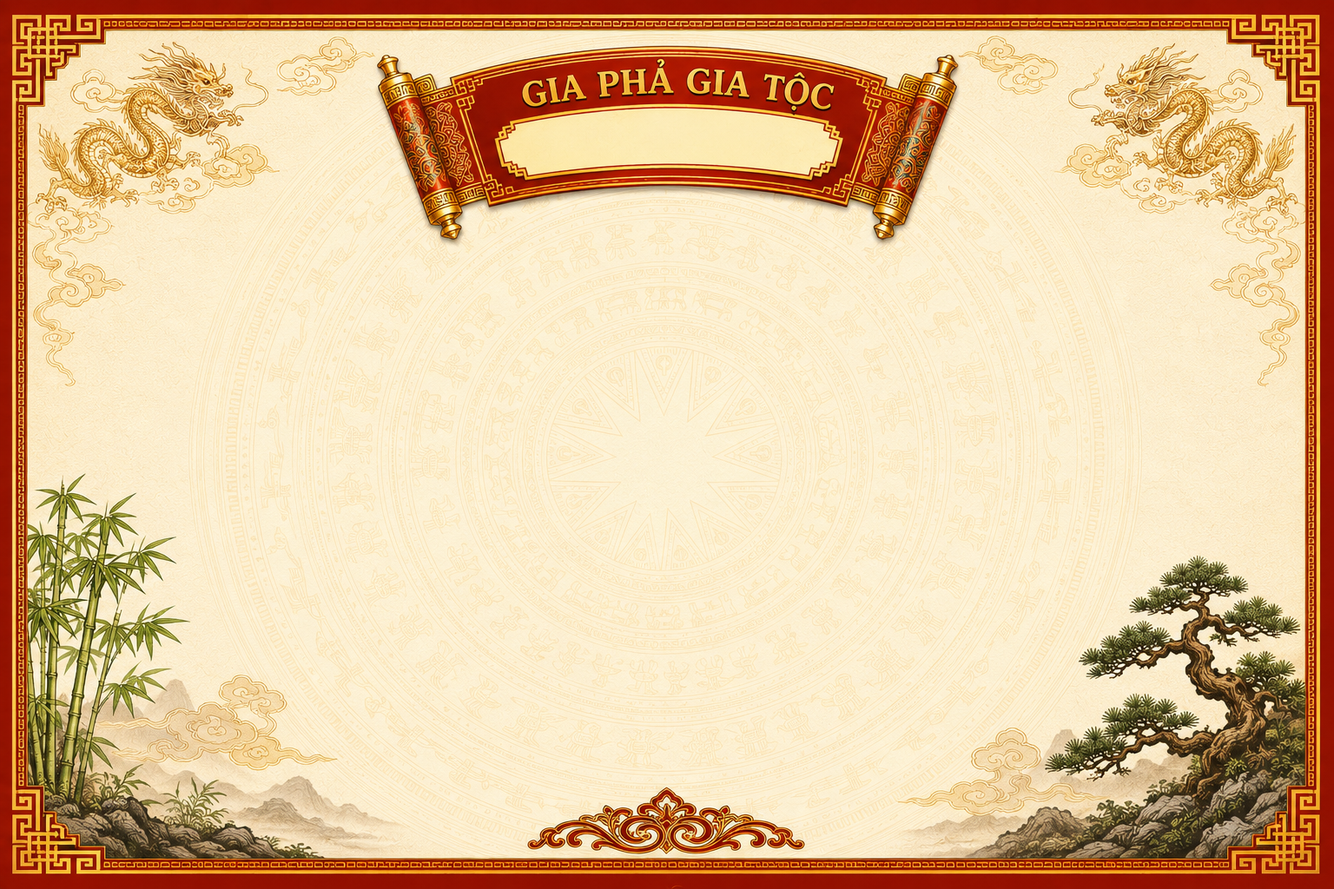
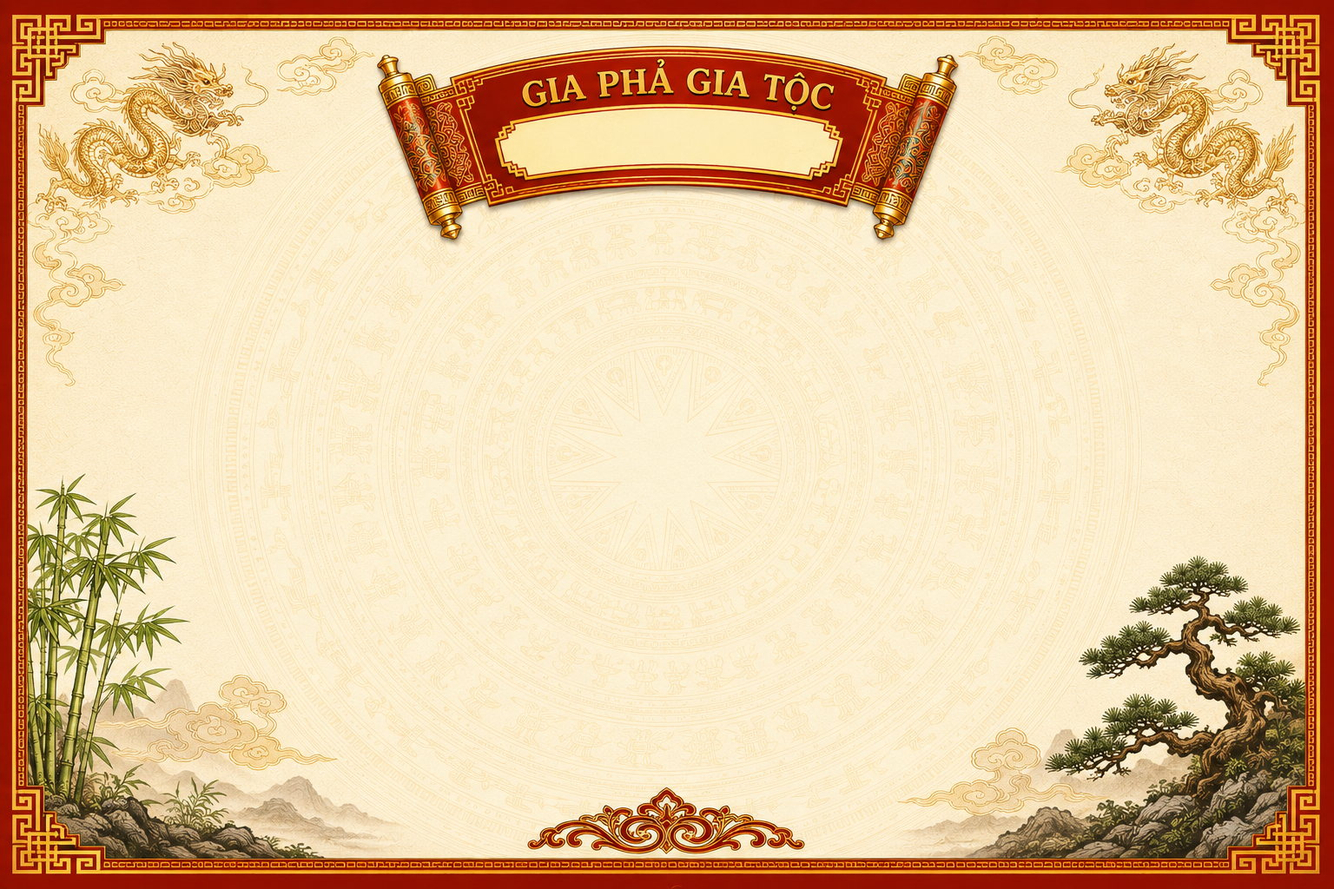
Chuan bi CH Play: nen anh nen 5.2MB -> 2.2MB (giam 58%), rut gon 20 cau huong dan dai dong cho giao dien chuyen nghiep hon, ra soat bao mat (235 lan esc, khong eval, khong lo khoa, RLS kin) va kiem tra 21/21 trang khong loi. Them tai lieu ho so CH Play

diff --git a/public/app.html b/public/app.html
@@ -839,7 +839,7 @@ function ioTemplate(key){const fs=ioFields(key);
 let ioData=null,ioKey='';
 function ioImport(key){ioKey=key;ioData=null;
  document.getElementById('modalBox').innerHTML=`<h3>⬆ Nhập ${esc(CRUD[key].title)}</h3>
-  <p class="muted" style="font-size:12.5px">Chọn file <b>.xlsx / .xls / .csv</b>. Dòng đầu là tiêu đề cột — không cần đúng thứ tự, không cần dấu.</p>
+  <p class="muted" style="font-size:12.5px">Chọn file .xlsx / .xls / .csv — dòng đầu là tiêu đề cột.</p>
   <div style="margin:6px 0 10px"><button class="btn btn-o btn-sm" onclick="ioTemplate('${key}')">⬇ Tải file mẫu</button></div>
   <div class="field"><input type="file" accept=".xlsx,.xls,.csv" onchange="ioFile(event)"/></div>
   <div id="ioPrev" class="muted" style="font-size:12.5px;min-height:24px"></div>
@@ -1044,7 +1044,7 @@ function memFromRow(o){const g=stripVN(String(o.gender||'')).toLowerCase();
   _spouse:String(o._spouse||'').split(/[\n\r]/)[0].replace(/^\s*\d+\.\s*/,'').replace(/\([^)]*\)/g,'').trim()};}
 let memImportData=null;
 function memImport(){document.getElementById('modalBox').innerHTML=`<h3>⬆ Nhập danh sách thành viên</h3>
- <p class="muted" style="font-size:12.5px">Chọn file <b>.xlsx / .xls / .csv</b>, dòng đầu là tiêu đề cột. Bấm <b>⬇ Mẫu Excel</b> để tải file mẫu đúng định dạng. Cột <b>Cha</b> và <b>Vợ/Chồng</b> điền <b>họ tên</b> (khớp người đã có hoặc trong cùng file).</p>
+ <p class="muted" style="font-size:12.5px">Chọn file .xlsx / .xls / .csv. Cột Cha, Mẹ, Vợ/Chồng điền họ tên.</p>
  <div class="field"><input type="file" accept=".xlsx,.xls,.csv" onchange="memImportFile(event)"/></div>
  <div id="memImpPrev" style="font-size:12.5px;margin-top:6px"></div>
  <div style="display:flex;justify-content:flex-end;gap:8px;margin-top:12px"><button class="btn btn-o" onclick="closeModal()">Hủy</button><button class="btn btn-p" id="memImpBtn" onclick="memImportCommit()" disabled>Nhập</button></div>`;
@@ -1269,7 +1269,7 @@ const OBJ_NUM=['size','w','h','rot','textRot','opacity','lh','ls'];
 const OBJ_CONT=['text','size','w','h','rot','textRot','opacity','lh','ls','color','border','bg'];
 function updObj(prop,v){const o=selO();if(!o)return;o[prop]=OBJ_NUM.includes(prop)?(+v):v;save();updateCpPreview();if(!OBJ_CONT.includes(prop))renderObjBar();}
 function renderObjBar(){const bar=document.getElementById('objBar');if(!bar)return;const o=selO();
- if(!o){bar.innerHTML='<span class="muted" style="font-size:12px">Bấm vào một ô chữ trong khung xem trước để chọn — rồi chỉnh mọi thuộc tính ở bảng này (kéo để di chuyển, kéo 8 nút để đổi cỡ, kéo nút tròn phía trên để xoay).</span>';return;}
+ if(!o){bar.innerHTML='<span class="muted" style="font-size:12px">Chọn một ô chữ trong khung xem trước để chỉnh.</span>';return;}
  const FS=[['khai','Khải'],['hanh','Bút lông'],['xing','Hành'],['long','Hành thảo'],['thao','Thảo'],['xiaowei','Thanh mảnh'],['dam','Đậm'],['chan','Tống']];
  const VF=[['serif','Serif (có chân)'],['title','Tiêu đề đậm'],['sans','Sans (không chân)']];
  const TY=[['hoanhphi','Hoành phi'],['cauic','Câu đối'],['title','Tiêu đề'],['subtitle','Phụ đề'],['text','Văn bản'],['translation','Bản dịch']];
@@ -1386,7 +1386,7 @@ function videoEmbed(u){const yt=String(u).match(/(?:youtu\.be\/|youtube\.com\/(?
  if(/\.(mp4|webm|ogg)(\?|$)/i.test(u))return `<video src="${esc(u)}" controls style="width:100%;border-radius:8px"></video>`;
  return `<a href="${esc(u)}" target="_blank" class="btn btn-o btn-sm">▶ ${esc(u)}</a>`;}
 V.nhatho=()=>{const h=hget(heritageTab);
- const body=`${h.text?`<div style="white-space:pre-line;line-height:1.7">${esc(h.text)}</div>`:'<p class="muted">Chưa có nội dung. Bấm "Sửa nội dung" để đăng bài (chữ + ảnh + video).</p>'}
+ const body=`${h.text?`<div style="white-space:pre-line;line-height:1.7">${esc(h.text)}</div>`:'<p class="muted">Chưa có nội dung.</p>'}
    ${h.images.length?`<div style="display:grid;grid-template-columns:repeat(3,1fr);gap:8px;margin-top:12px">${h.images.map(src=>`<img src="${src}" style="width:100%;border-radius:8px"/>`).join('')}</div>`:''}
    ${h.videos.length?`<div style="margin-top:12px;display:grid;gap:10px">${h.videos.map(videoEmbed).join('')}</div>`:''}
    <div style="margin-top:14px"><button class="btn btn-p btn-sm" onclick="editHeritage('${heritageTab}')">✎ Sửa nội dung</button></div>`;
@@ -1754,7 +1754,7 @@ function fundReportPane(){const rows=fundRows();const t=fundTotals(rows);
 function fundCatPane(){const list=cats();
  return `<div class="card pad"><div class="h3" style="display:flex;align-items:center;gap:8px">🏷 Hạng mục quỹ
    <button class="btn btn-o btn-sm" style="margin-left:auto" onclick="catAdd()">➕ Thêm hạng mục</button></div>
-  <p class="muted" style="font-size:12.5px;margin:0 0 8px">Mỗi giao dịch thuộc một hạng mục. Đổi tên thì các giao dịch cũ tự đổi theo.</p>
+  <p class="muted" style="font-size:12.5px;margin:0 0 8px"></p>
   ${list.map((c,i)=>{const n=(DB.fund||[]).filter(x=>catClean(x.cat)===c);
     const thu=n.filter(x=>x.type!=='Chi').reduce((s2,x)=>s2+(+x.amount||0),0);
     const chi=n.filter(x=>x.type==='Chi').reduce((s2,x)=>s2+(+x.amount||0),0);
@@ -1858,7 +1858,7 @@ V.ai=()=>{const opts=DB.members.map(m=>`<option value="${m.id}">${esc(m.name)}${
    <div id="aiAns" style="margin-top:10px"></div>
    <p class="muted" style="font-size:11.5px;margin-top:6px">${hasKey?'Đang dùng '+esc(DB.settings.ai.provider)+' cho câu hỏi mở.':'Chưa cấu hình API — trợ lý trả lời từ dữ liệu gia phả trong máy. Muốn hỏi đáp mở rộng, thêm API key ở Cài đặt → AI.'}</p></div>
   <div class="card frame-gold pad" style="cursor:pointer" onclick="psOpen('auto')"><div class="h3">🎞 Chỉnh sửa - phục chế ảnh</div>
-   <p class="muted" style="font-size:12.5px;line-height:1.8">Studio như chuyên gia Photoshop lâu năm: phân tích hư hại tự động, 13 preset phục chế, 11 thanh chỉnh realtime, so sánh trước/sau, phục chế AI, xuất chất lượng cao — hỗ trợ nhiều ảnh cùng lúc.</p>
+   <p class="muted" style="font-size:12.5px;line-height:1.8">Phục chế ảnh cũ: phân tích hư hại, 13 kiểu phục chế, so sánh trước/sau, xuất chất lượng cao.</p>
    <button class="btn btn-p btn-sm">🎞 Mở Studio</button></div></div>
  <div class="card frame-gold pad" style="margin-top:12px"><div class="h3">🔎 Truy xuất quan hệ</div><div style="display:flex;gap:8px;flex-wrap:wrap;align-items:center"><select id="rA" style="width:200px">${opts}</select><span>↔</span><select id="rB" style="width:200px">${opts}</select><button class="btn btn-p" onclick="findRel()">Tra cứu</button></div><div id="relResult" style="margin-top:14px"></div></div>`;};
 function anc(id){const c=[];let x=id,g=new Set();while(x&&!g.has(x)){g.add(x);c.push(x);const m=DB.members.find(o=>o.id===x);x=m?(m.fatherId||m.motherId||0):0;}return c;}
@@ -1962,7 +1962,7 @@ function hvTuvi(){const b=hvBirth();const p=hvP();if(!b)return hvNeedDate();
  const now=new Date().getFullYear();const age=now-b.y+1;
  let dv='';for(let i=0;i<6;i++){const y0=b.y+i*10;const c=canChi(y0);dv+=`<span class="hv-pill">${i*10}–${i*10+9} tuổi · ${c.can} ${c.chi} (${c.menh.split(' ').pop()})</span>`;}
  const sao=saoNam(age,p.gender);const hanh=cy.menh.split(' ').pop();
- return hvSec('🗓 Tứ trụ (giản lược)',tru)+hvSec('📈 Đại vận theo thập niên',dv+'<div class="muted" style="font-size:11.5px;margin-top:4px">Chu kỳ 10 năm theo Can Chi — cách nhìn văn hóa về các giai đoạn cuộc đời.</div>')
+ return hvSec('🗓 Tứ trụ (giản lược)',tru)+hvSec('📈 Đại vận theo thập niên',dv+'<div class="muted" style="font-size:11.5px;margin-top:4px"></div>')
  +(sao?hvSec(`⭐ Sao năm ${now} (tuổi mụ ${age})`,`Sao <b>${sao}</b> — ${SAO_Y[sao]||''}.`):'')
  +hvSec('🌱 Gợi ý phát triển bản thân',`Người mệnh <b>${hanh}</b> theo quan niệm ngũ hành: ${HANH_GOIY[hanh]}. Tuổi ${cy.chi}: ${CHITRAIT[cy.chi]||''}.`)+HV_NOTE;}
 function hvThanso(){const b=hvBirth();const p=hvP();if(!p.name&&!b)return hvNeedDate();
@@ -2660,7 +2660,7 @@ function lbBrowser(k,title,intro){const groups=lbData(k).map(g=>g.g);const fav=l
 function mtCard(kind){const has=DB.settings.ai&&DB.settings.ai.key;
  return `<div class="card pad mt-card">
   <div class="h3">📷 Đối chiếu ảnh của bạn với thư viện</div>
-  <p class="muted" style="font-size:12.5px;margin:4px 0 9px">Tải ảnh hoặc chụp ${kind==='face'?'khuôn mặt':'bàn tay'}, đánh dấu vài điểm mốc — ứng dụng đo tỉ lệ và tìm <b>3–5 mẫu giống nhất</b>. Mọi việc làm ngay trong máy, <b>ảnh không lưu, không gửi đi đâu</b>.</p>
+  <p class="muted" style="font-size:12.5px;margin:4px 0 9px">Chụp hoặc chọn ảnh, đánh dấu vài điểm mốc để tìm mẫu giống nhất. Ảnh xử lý trong máy, không lưu.</p>
   <div style="display:flex;gap:8px;flex-wrap:wrap">
    <button class="btn btn-p" onclick="mtOpen('${kind}')">🎯 Bắt đầu đối chiếu</button>
    ${has?`<button class="btn btn-o" onclick="hvCam('${kind==='face'?'face':'palm'}')">🤖 Nhờ AI mô tả thêm</button><div id="hv${kind==='face'?'Face':'Palm'}Out" style="width:100%;margin-top:8px"></div>`:''}
@@ -2767,7 +2767,7 @@ function lcGoodView(){const now=new Date();const base=lcGoodM==null?new Date(now
  return `<div style="display:flex;gap:8px;flex-wrap:wrap;align-items:center;margin-bottom:8px">
   <select onchange="lcPurpose=this.value;render()">${LC_PURPOSE.map(p=>`<option value="${p[0]}" ${lcPurpose===p[0]?'selected':''}>${p[1]}</option>`).join('')}</select>
   <button class="btn btn-o btn-sm" onclick="lcGoodM=new Date(${y},${m-1},1);render()">‹</button><b>Tháng ${m+1}/${y}</b><button class="btn btn-o btn-sm" onclick="lcGoodM=new Date(${y},${m+1},1);render()">›</button></div>
- <p class="muted" style="font-size:11.5px">Chấm điểm theo lệ dân gian phổ thông (hoàng/hắc đạo, Tam nương, Nguyệt kỵ) — giải thích rõ ràng, không thuật ngữ phức tạp.</p>
+ <p class="muted" style="font-size:11.5px">Theo lệ dân gian phổ thông — chỉ để tham khảo.</p>
  ${rows.slice(0,12).map(x=>`<div class="hv-sec" style="margin-top:8px"><div style="display:flex;gap:8px;align-items:center;flex-wrap:wrap">
    <b style="font-size:15px">${['CN','T2','T3','T4','T5','T6','T7'][x.t.getDay()]} ${x.t.getDate()}/${m+1}</b>
    <span class="muted" style="font-size:12px">(âm ${x.i.lu.d}/${x.i.lu.m} · ${x.i.cd.can} ${x.i.cd.chi})</span>
@@ -2785,7 +2785,7 @@ function lcClanView(){const s=DB.settings;s.remind=s.remind||{le:true,ho:true,da
   <label><input type="checkbox" ${s.remind.le?'checked':''} onchange="DB.settings.remind.le=this.checked;save()"/> Lễ truyền thống</label>
   <label><input type="checkbox" ${s.remind.ho?'checked':''} onchange="DB.settings.remind.ho=this.checked;save()"/> Việc họ / giỗ</label>
   <span>Nhắc trước: ${[30,7,3,1,0].map(dd=>`<label style="margin-right:6px"><input type="checkbox" ${s.remind.days.includes(dd)?'checked':''} onchange="const a=DB.settings.remind.days;this.checked?a.push(${dd}):a.splice(a.indexOf(${dd}),1);save()"/> ${dd===0?'đúng ngày':dd+' ngày'}</label>`).join('')}</span></div>
-  <div class="muted" style="font-size:11px;margin-top:4px">Nhắc hiện khi mở app (bản offline). Bản server sẽ thêm push/email.</div></div>
+  <div class="muted" style="font-size:11px;margin-top:4px"></div></div>
  <div style="margin-top:8px">${up.length?up.map(e=>{const diff=Math.round((e.t-now)/864e5);
   return `<div class="row"><span class="dot">${e.src==='le'?'🏮':'👪'}</span><span style="flex:1"><b>${esc(e.title)}</b><div class="muted" style="font-size:11.5px">${e.type} · ${['CN','T2','T3','T4','T5','T6','T7'][e.t.getDay()]} ${e.t.getDate()}/${e.t.getMonth()+1}/${e.t.getFullYear()}</div></span><span class="hv-pill" style="${diff<=3?'background:var(--primary);color:#fff;border:0':''}">${diff===0?'Hôm nay':'còn '+diff+' ngày'}</span></div>`;}).join(''):'<p class="muted">Không có sự kiện trong 120 ngày tới.</p>'}</div>`;}
 function lcCheckReminders(){try{const s=DB.settings;if(!s.remind)return;const today=new Date().toDateString();
@@ -3003,7 +3003,7 @@ function rlBody(){const s=DB.settings;const fav=s.rlFav||[],rec=s.rlRecent||[];
  let detail='';
  if(rlSel){const it=rlItem(rlSel);if(it)detail=rlDetail(it);}
  return `<div class="card frame-gold pad" style="margin-top:12px"><div class="h3">📜 Thư viện Văn khấn & Nghi lễ Gia tộc</div>
- <p class="muted" style="font-size:12px;margin-bottom:8px">Cẩm nang nghi lễ thờ cúng tổ tiên — nội dung phổ thông tham khảo, mỗi dòng họ có thể tùy biến theo tục nhà.</p>
+ <p class="muted" style="font-size:12px;margin-bottom:8px">Nghi lễ thờ cúng tổ tiên — có thể tùy biến theo tục lệ dòng họ.</p>
  <div style="display:flex;gap:8px;flex-wrap:wrap;align-items:center;margin-bottom:8px">
   <input class="input" style="flex:1;min-width:180px" placeholder="🔎 Tìm lễ, văn khấn… (VD: giao thừa, tảo mộ)" value="${esc(rlQ)}" oninput="rlQ=this.value;render()"/>
  </div>
@@ -3045,7 +3045,7 @@ function rlDetail(it){const[id,cat,name,am,khai]=it;const sp=RL_SPEC[id]||{};con
    <input class="input" id="rlHost" placeholder="Người chủ lễ (VD: Nguyễn Văn A)" style="min-width:180px"/>
    <input class="input" id="rlWish" placeholder="Mong cầu (VD: cầu bình an, thi cử đỗ đạt…)" style="flex:1;min-width:200px"/>
    <button class="btn btn-p btn-sm" onclick="rlGen('${id}')">Tạo văn khấn</button>${(DB.settings.ai&&DB.settings.ai.key)?`<button class="btn btn-o btn-sm" onclick="rlGenAI('${id}')">🤖 Soạn bằng AI</button>`:''}
-  </div><div class="muted" style="font-size:11.5px;margin-top:4px">Tự điền tên ${esc(DB.org.display)}, ngày âm lịch hôm nay (${rlLunarNow()}), địa chỉ nhà thờ.</div><div id="rlGenOut" style="margin-top:8px"></div>`)}
+  </div><div class="muted" style="font-size:11.5px;margin-top:4px"></div><div id="rlGenOut" style="margin-top:8px"></div>`)}
  ${hvSec('🎎 Nghi thức & kiêng kỵ','Trang phục chỉnh tề, sạch sẽ, màu nhã.<br>Chủ lễ: trưởng họ/gia chủ; con cháu theo thứ bậc trưởng–ấu đứng sau.<br>Hương thắp số lẻ 1–3–5 nén; gia tiên vái 3 vái – 2 lạy (tang lễ 4 lạy).<br>Hóa vàng sau khi hương cháy 2/3, thần trước – gia tiên sau.<br><b>Kiêng:</b> ăn mặc xuề xòa, cười đùa to tiếng, nếm đồ cúng trước, thổi tắt hương/nến bằng miệng, xê dịch bát hương.')}
  ${hvSec('🗾 Phong tục ba miền',RL_MIEN)}
  ${HV_NOTE}</div>`;}
@@ -3084,7 +3084,7 @@ async function rlGenAI(id){const it=rlItem(id);const host=val('rlHost'),wish=val
 function rlRemind(id){const it=rlItem(id);DB.events.unshift({id:nextId(DB.events),title:it[2],type:'Lễ tiết',date:'Âm lịch '+it[3],location:DB.clan.church||'Nhà thờ họ',note:'Nhắc từ Thư viện nghi lễ'});logAct('Thêm nhắc lễ: '+it[2]);save();toast('Đã thêm vào Sự kiện — xem lịch ở mục Sự kiện');}
 function rlEdit(id){const it=rlItem(id);const cu=rlCustom(id);
  document.getElementById('modalBox').innerHTML=`<h3>✏ Tùy biến "${it[2]}" theo ${esc(DB.org.display)}</h3>
- <p class="muted" style="font-size:12px">Nội dung riêng của dòng họ — không ảnh hưởng bản chuẩn. Để trống = dùng bản chuẩn.</p>
+ <p class="muted" style="font-size:12px">Để trống = dùng bản chuẩn.</p>
  <div class="field"><label>Văn khấn truyền thống (bản riêng)</label><textarea id="rcTrad" rows="6">${esc(cu.trad||'')}</textarea></div>
  <div class="field"><label>Văn khấn hiện đại (bản riêng)</label><textarea id="rcMod" rows="4">${esc(cu.modern||'')}</textarea></div>
  <div class="field"><label>Lễ vật theo tục riêng</label><input class="input" id="rcOffer" value="${esc(cu.offer||'')}" placeholder="VD: Họ ta cúng thêm bánh dày, không dùng vàng mã"/></div>
@@ -3362,7 +3362,7 @@ V.roles=()=>{const RS=roleList(),cur=curRole();const canEdit=curLevel()>=3;
  return `<div class="h1">🔐 Phân quyền & Nhật ký</div><div class="sub">Bật/tắt quyền cho từng vai trò bằng ô tích — áp dụng ngay (nút Thêm/Sửa/Xóa/Duyệt tự ẩn hiện). "Vai trò hiện tại" để xem thử app dưới vai trò đó.</div>
  <div class="card pad" style="margin-bottom:12px;display:flex;gap:10px;align-items:center;flex-wrap:wrap"><b>Vai trò hiện tại:</b><select onchange="setRole(this.value)" style="width:210px">${RS.map(r=>`<option value="${r.key}" ${cur===r.key?'selected':''}>${esc(r.name)}</option>`).join('')}</select><span class="muted" style="font-size:12.5px">Xem thử giao diện dưới quyền vai trò này</span></div>
  <div class="card pad" style="margin-bottom:12px"><div class="h3">🛡 Bảng phân quyền${canEdit?'':' (chỉ xem — cần vai trò Ban quản trị / Trưởng họ để chỉnh)'}</div><p class="muted" style="font-size:12px;margin-bottom:8px">Trưởng họ luôn toàn quyền (khóa). Tick = cho phép.</p>${matrix}${canEdit?`<div style="margin-top:10px"><button class="btn btn-o btn-sm" onclick="rolePermReset()">↺ Đặt lại mặc định</button></div>`:''}
-   <p class="muted" style="font-size:11px;margin-top:8px">Đây là phân quyền cục bộ trên máy này (dùng cho 1 người soạn). Phân quyền nhiều tài khoản đăng nhập thật sẽ có ở bản triển khai máy chủ (Supabase).</p></div>
+   <p class="muted" style="font-size:11px;margin-top:8px">Phân quyền áp dụng trên thiết bị này.</p></div>
  <div class="card pad"><div class="h3">🕒 Nhật ký hoạt động</div>${DB.activity.slice(0,20).map(a=>`<div class="row"><span class="muted" style="font-size:12px;width:150px">${esc(a.time)}</span><span>${esc(a.action)}</span></div>`).join('')||'<p class="muted">Chưa có hoạt động.</p>'}</div>`;};
 
 /* ---- Cài đặt (nhiều nhóm) ---- */
@@ -3377,7 +3377,7 @@ V.settings=()=>{let body='';
    <div class="h3" style="margin-top:16px">Thông tin nhà thờ / cơ sở</div>
    <div class="field"><label>Tên nhà thờ</label><input class="input" id="setChurch" value="${esc(DB.clan.church)}"/></div><div class="field"><label>Địa chỉ</label><input class="input" id="setAddr" value="${esc(DB.clan.address)}"/></div><div class="fgrid"><div class="field"><label>Năm khởi dựng</label><input class="input" id="setBuilt" value="${esc(DB.clan.built)}"/></div><div class="field"><label>Diện tích</label><input class="input" id="setArea" value="${esc(DB.clan.area)}"/></div></div>`;}
  else if(setTab==='hp'){const c=DB.couplet||{};cpBgTmp=null;const FS=[['khai','Khải thư 楷 — chân phương, mềm'],['hanh','Bút lông 楷行 (Ma Shan)'],['xing','Hành thư 行'],['long','Hành thảo 行草'],['thao','Thảo thư 草'],['xiaowei','Thanh mảnh'],['dam','Đậm nét'],['chan','Tống 宋 — kiểu in']];
-   body=`<p class="muted" style="font-size:12.5px;margin-bottom:10px">Gõ bằng <b>Hán‑Việt (chữ Việt)</b>, hệ thống tự chuyển sang <b>chữ Hán</b> hiển thị ở trang chủ. VD: "Đức Lưu Quang".</p>
+   body=`<p class="muted" style="font-size:12.5px;margin-bottom:10px">Gõ Hán‑Việt, hệ thống tự chuyển sang chữ Hán. VD: Đức Lưu Quang</p>
    <div class="field"><label>Đại tự (hoành phi)</label><input class="input" id="cpDT" value="${esc(c.daitu||'')}" oninput="updateCpPreview()"/></div>
    <div class="fgrid"><div class="field"><label>Câu đối phải</label><input class="input" id="cpR" value="${esc(c.right||'')}" oninput="updateCpPreview()"/></div><div class="field"><label>Câu đối trái</label><input class="input" id="cpL" value="${esc(c.left||'')}" oninput="updateCpPreview()"/></div></div>
    <div class="field"><label>Dòng châm ngôn (trên tên)</label><input class="input" id="cpEye" value="${esc(c.eyebrow!=null?c.eyebrow:'Uống nước nhớ nguồn · Tôn vinh tổ tiên')}" oninput="updateCpPreview()"/></div>
@@ -3390,7 +3390,7 @@ V.settings=()=>{let body='';
    <div class="field"><label>Cỡ chữ câu đối</label><input type="range" id="cpSizeCau" min="18" max="44" value="${c.sizeCau||29}" oninput="cpSyncSize()"/></div></div>
    <div class="field"><label>Giãn cách chữ đại tự (khung tự ôm theo chữ)</label><input type="range" id="cpSpaceDT" min="0" max="0.7" step="0.02" value="${c.spaceDT!=null?c.spaceDT:0.24}" oninput="cpSyncSize()"/></div>
    <div class="field"><label>Ảnh nền trang chủ</label><input type="file" accept="image/*" onchange="cpBgPick(event)"/><div id="cpBgPrev" style="margin-top:6px">${c.bg?`<img src="${c.bg}" style="height:60px;border-radius:8px"/> <button class="btn btn-d btn-sm" onclick="cpBgClear()">Xóa nền</button>`:''}</div>
-   ${c.bg?`<div style="display:flex;gap:10px;align-items:center;flex-wrap:wrap;margin-top:6px"><label style="font-size:12px;white-space:nowrap"><input type="checkbox" ${c.bgFit?'checked':''} onchange="cpBgFit(this.checked)"/> 🖼 Vừa khung (hiện trọn ảnh)</label><b style="font-size:12px">🔍 Phóng nền:</b><input type="range" min="100" max="300" step="5" value="${c.bgZoom||100}" oninput="cpBgZoom(this.value)" style="width:140px" ${c.bgFit?'disabled':''}/><button class="btn btn-o btn-sm" onclick="cpBgReset()">↺ Giữa</button><span class="muted" style="font-size:11.5px">✋ Kéo trực tiếp vùng nền trống trong khung xem trước để dời ảnh</span></div>`:''}</div>
+   ${c.bg?`<div style="display:flex;gap:10px;align-items:center;flex-wrap:wrap;margin-top:6px"><label style="font-size:12px;white-space:nowrap"><input type="checkbox" ${c.bgFit?'checked':''} onchange="cpBgFit(this.checked)"/> 🖼 Vừa khung (hiện trọn ảnh)</label><b style="font-size:12px">🔍 Phóng nền:</b><input type="range" min="100" max="300" step="5" value="${c.bgZoom||100}" oninput="cpBgZoom(this.value)" style="width:140px" ${c.bgFit?'disabled':''}/><button class="btn btn-o btn-sm" onclick="cpBgReset()">↺ Giữa</button><span class="muted" style="font-size:11.5px"></span></div>`:''}</div>
    <div class="field"><label><input type="checkbox" ${c.free?'checked':''} onchange="toggleFree(this.checked)"/> Bố cục tự do — soạn như Canva/PowerPoint (mỗi dòng chữ là 1 ô)</label>
    ${c.free?`<div style="display:flex;gap:6px;flex-wrap:wrap;margin-top:6px"><button class="btn btn-o btn-sm" onclick="addObj(true)">➕ Ô chữ Hán</button><button class="btn btn-o btn-sm" onclick="addObj(false)">➕ Ô chữ thường</button><button class="btn btn-o btn-sm" onclick="resetLayout()">↺ Đặt lại</button></div><div id="objBar" class="card" style="padding:8px;margin-top:8px;background:var(--accent)"></div>`:''}</div>
    <div class="field"><label>Xem trước trang chủ ${c.free?'— bấm 1 ô để chọn; kéo để di chuyển; kéo 8 nút xanh để đổi cỡ; nút tròn phía trên để xoay':''}</label><div id="cpPreview" style="border:1px solid var(--border);border-radius:12px;overflow:hidden">${heroHTML(c,true,selObj)}</div></div>
@@ -3404,7 +3404,7 @@ V.settings=()=>{let body='';
    <div class="field"><label>Quy tắc đánh số ${esc(T.gen.toLowerCase())}</label><textarea id="gpGen" rows="2">${esc(DB.clan.genRule)}</textarea></div>
    <div class="field"><label>Quy tắc đặt mã thành viên</label><textarea id="gpCode" rows="2">${esc(DB.clan.codeRule)}</textarea></div>
    <button class="btn btn-p" onclick="saveGp()">Lưu</button>`;
- else if(setTab==='data')body=syncPanel()+`<p class="muted" style="margin:16px 0 10px">Sao lưu / phục hồi bằng file (dùng khi chuyển máy hoặc chưa bật đồng bộ).</p><div style="display:flex;flex-wrap:wrap;gap:8px"><button class="btn btn-o" onclick="backup()">⬇ Sao lưu (JSON)</button><label class="btn btn-o" style="cursor:pointer">⬆ Phục hồi<input type="file" accept="application/json" style="display:none" onchange="restore(event)"/></label><button class="btn btn-o" onclick="exportCsv()">⬇ Xuất CSV thành viên</button><button class="btn btn-d" onclick="resetDb()">↺ Về dữ liệu mẫu</button></div>`;
+ else if(setTab==='data')body=syncPanel()+`<p class="muted" style="margin:16px 0 10px">Sao lưu / phục hồi bằng file.</p><div style="display:flex;flex-wrap:wrap;gap:8px"><button class="btn btn-o" onclick="backup()">⬇ Sao lưu (JSON)</button><label class="btn btn-o" style="cursor:pointer">⬆ Phục hồi<input type="file" accept="application/json" style="display:none" onchange="restore(event)"/></label><button class="btn btn-o" onclick="exportCsv()">⬇ Xuất CSV thành viên</button><button class="btn btn-d" onclick="resetDb()">↺ Về dữ liệu mẫu</button></div>`;
  else if(setTab==='log')body=DB.activity.slice(0,50).map(a=>`<div class="row"><span class="muted" style="font-size:12px;width:150px">${esc(a.time)}</span><span>${esc(a.action)}</span></div>`).join('')||'<p class="muted">Chưa có nhật ký.</p>';
  else body=`<div class="field"><label>Nhà cung cấp AI</label><select id="aiP"><option ${DB.settings.ai.provider==='Chưa cấu hình'?'selected':''}>Chưa cấu hình</option><option ${DB.settings.ai.provider==='OpenAI (GPT)'?'selected':''}>OpenAI (GPT)</option><option ${DB.settings.ai.provider==='Anthropic (Claude)'?'selected':''}>Anthropic (Claude)</option></select></div><div class="field"><label>API Key</label><input class="input" id="aiK" type="password" value="${esc(DB.settings.ai.key)}"/></div><p class="muted" style="font-size:12px">Khóa lưu trong máy, dùng cho hỏi đáp AI khi deploy server.</p><button class="btn btn-p" onclick="saveAi()">Lưu</button>`;
  return `<div class="h1">⚙ Cài đặt</div><div class="tabbar"><div class="tabs" style="margin-bottom:0">${STABS.map(t=>`<span class="chip ${setTab===t[0]?'on':''}" onclick="setTab='${t[0]}';render()">${t[1]}</span>`).join('')}</div></div><div class="card pad" style="margin-top:10px">${body}</div>`;};
@@ -3473,7 +3473,7 @@ async function syncApi(path,body){
 function syncPanel(){const s=syncGet();
  if(!s)return `<div class="card pad" style="border-color:var(--gold)">
   <div class="h3">☁ Đồng bộ cả dòng họ (nhiều máy / điện thoại)</div>
-  <p class="muted" style="font-size:12.5px;margin:6px 0 10px">Bật đồng bộ để mọi người trong họ cùng xem <b>một dữ liệu chung</b>: sửa ở máy tính, điện thoại thấy ngay. Truy cập bằng <b>mã dòng họ + mật khẩu</b>, không cần email.</p>
+  <p class="muted" style="font-size:12.5px;margin:6px 0 10px">Cả họ cùng xem một dữ liệu chung trên mọi thiết bị.</p>
   <div class="two">
    <div><div class="h3" style="font-size:14px">Đã có mã dòng họ → Vào sổ</div>
     <div class="field"><label>Mã dòng họ</label><input id="skCode" placeholder="VD: NGUYEN-AN-HOA"/></div>
@@ -3533,7 +3533,7 @@ function auBody(){const el=document.getElementById('auBody');if(!el)return;
   <div class="field"><label>Mã dòng họ</label><input id="auCode" placeholder="VD: NGUYEN-THUONG" autocapitalize="characters" onkeydown="if(event.key==='Enter')auDoLogin()"/></div>
   <div class="field"><label>Mật khẩu</label><input id="auPass" type="password" placeholder="Mật khẩu được cấp" onkeydown="if(event.key==='Enter')auDoLogin()"/></div>
   <button class="au-btn" onclick="auDoLogin()">🔑 Đăng nhập</button>
-  <div class="au-hint">Dùng mã dòng họ và mật khẩu do trưởng tộc cung cấp. Mật khẩu quản trị được sửa dữ liệu; mật khẩu chung chỉ để xem.</div>
+  <div class="au-hint"></div>
   <div class="au-alt"><button onclick="auTab('up')">Chưa có? Đăng ký dòng họ mới</button> · <button onclick="auSkip()">Dùng thử không cần tài khoản</button></div>`;
  else el.innerHTML=`<div id="auMsg" class="au-msg"></div>
   <div class="field"><label>Mã dòng họ (chữ không dấu, số, gạch ngang)</label><input id="auNCode" placeholder="NGUYEN-AN-HOA" autocapitalize="characters"/></div>
@@ -3541,7 +3541,7 @@ function auBody(){const el=document.getElementById('auBody');if(!el)return;
   <div class="field"><label>Mật khẩu quản trị (trưởng tộc — được sửa)</label><input id="auNAdmin" type="password" placeholder="từ 6 ký tự"/></div>
   <div class="field"><label>Mật khẩu cho cả họ (chỉ xem — không bắt buộc)</label><input id="auNMem" type="password"/></div>
   <button class="au-btn" onclick="auDoRegister()">➕ Tạo dòng họ</button>
-  <div class="au-hint">Mã dòng họ là thứ cả họ dùng để vào xem gia phả — hãy đặt dễ nhớ và báo lại cho con cháu.</div>
+  <div class="au-hint"></div>
   <div class="au-alt"><button onclick="auTab('in')">Đã có mã? Đăng nhập</button> · <button onclick="auSkip()">Dùng thử không cần tài khoản</button></div>`;}
 function auOpen(m){auMode=m||'in';const w=document.getElementById('authWrap');if(!w)return;
  w.classList.add('open');auTab(auMode);setTimeout(()=>{const f=document.getElementById(auMode==='in'?'auCode':'auNCode');if(f)f.focus();},60);}
